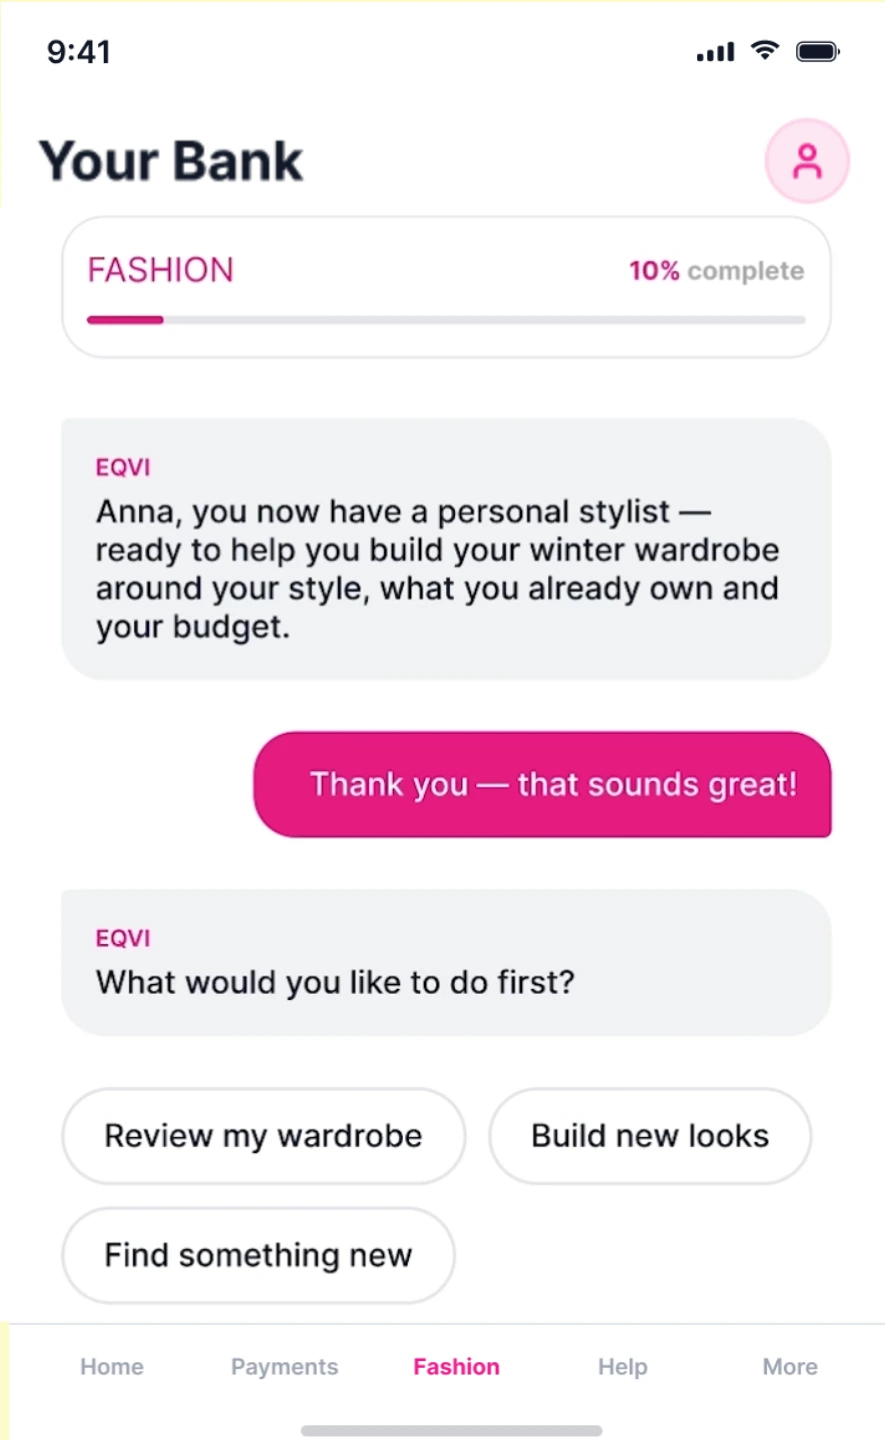
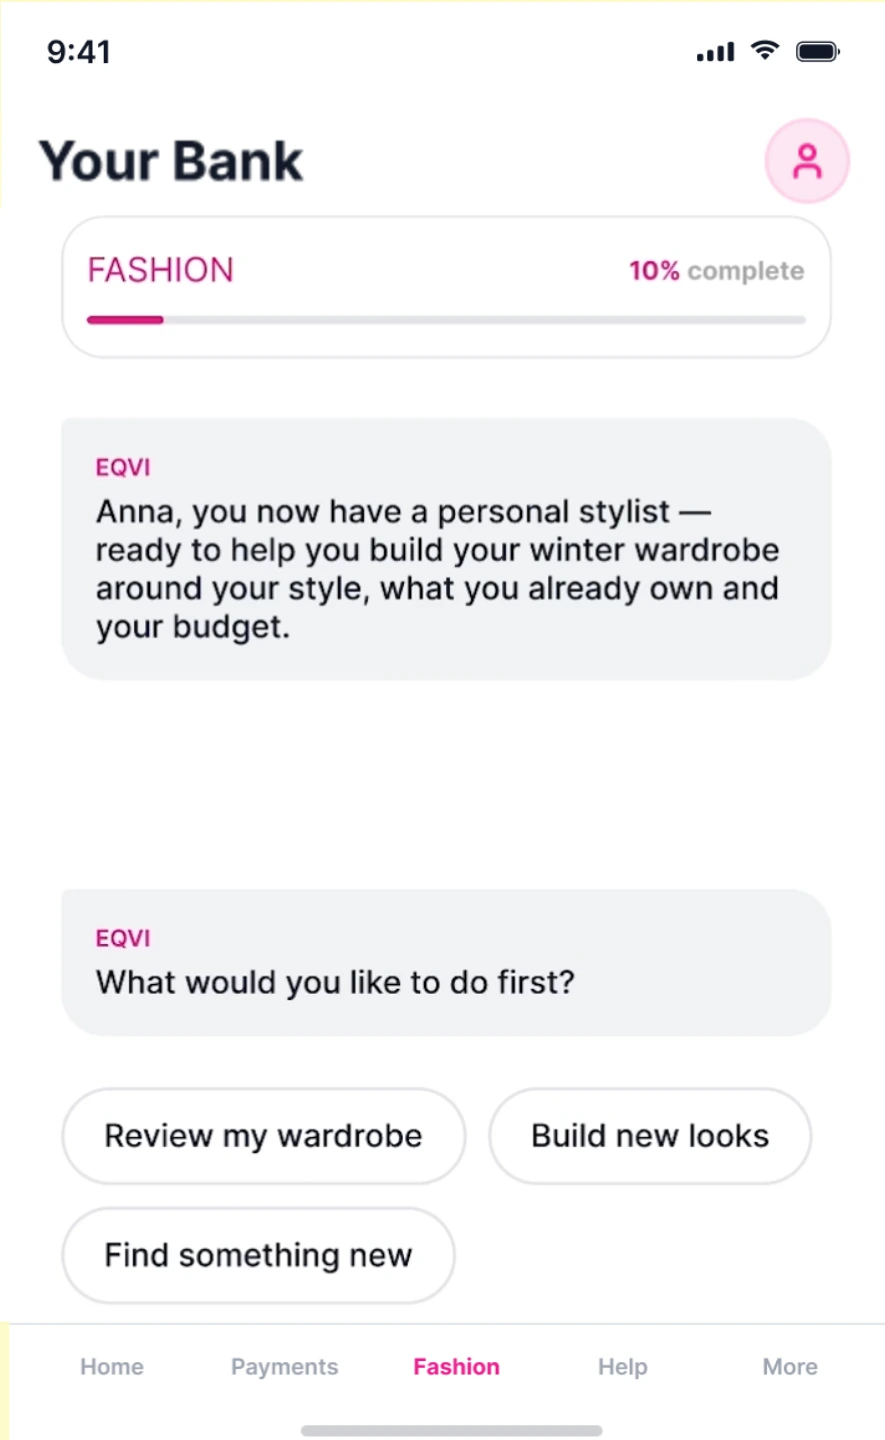
feat: new preview, remove overlay

Changed region(s): [[0.2746, 0.5, 0.9458, 0.5938]]

diff --git a/en/index.html b/en/index.html
@@ -448,7 +448,7 @@
                 <div class="videoToggler r eqvi-phone eqvi-phone--pink shrink-0 mx-auto overflow-hidden relative">
                     <div class="eqvi-phone-notch absolute top-2 left-1/2 -translate-x-1/2"></div>
                     <video src="../Assets/Images/new_page2/retention/hero.mp4" playsinline muted loop class="w-full h-full video"></video>
-                    <div class="absolute bg-black/20 inset-0 flex items-center justify-center cursor-pointer z-1 videoOverlay">
+                    <div class="absolute inset-0 flex items-center justify-center cursor-pointer z-1 videoOverlay">
                         <div class="flex flex-col gap-4 items-center justify-center transition-all duration-500">
                             <div class="w-fit flex items-center justify-center p-4 rounded-full border-2 border-[#F05EAD]">
                                 <svg class="w-8 lg:w-10 h-8 lg:h-10" viewBox="0 0 24 24" fill="none" xmlns="http://www.w3.org/2000/svg">
@@ -906,7 +906,7 @@
                         <div class="videoToggler r eqvi-phone eqvi-phone--pink shrink-0 mx-auto overflow-hidden relative">
                             <div class="eqvi-phone-notch absolute top-2 left-1/2 -translate-x-1/2"></div>
                             <video src="../Assets/Images/new_page2/retention/main.mp4" playsinline muted loop class="w-full h-full video"></video>
-                            <div class="absolute bg-black/20 inset-0 flex items-center justify-center cursor-pointer z-1 videoOverlay">
+                            <div class="absolute inset-0 flex items-center justify-center cursor-pointer z-1 videoOverlay">
                                 <div class="flex flex-col gap-4 items-center justify-center transition-all duration-500">
                                     <div class="w-fit flex items-center justify-center p-4 rounded-full border-2 border-[#F05EAD]">
                                         <svg class="w-8 lg:w-10 h-8 lg:h-10" viewBox="0 0 24 24" fill="none" xmlns="http://www.w3.org/2000/svg">
